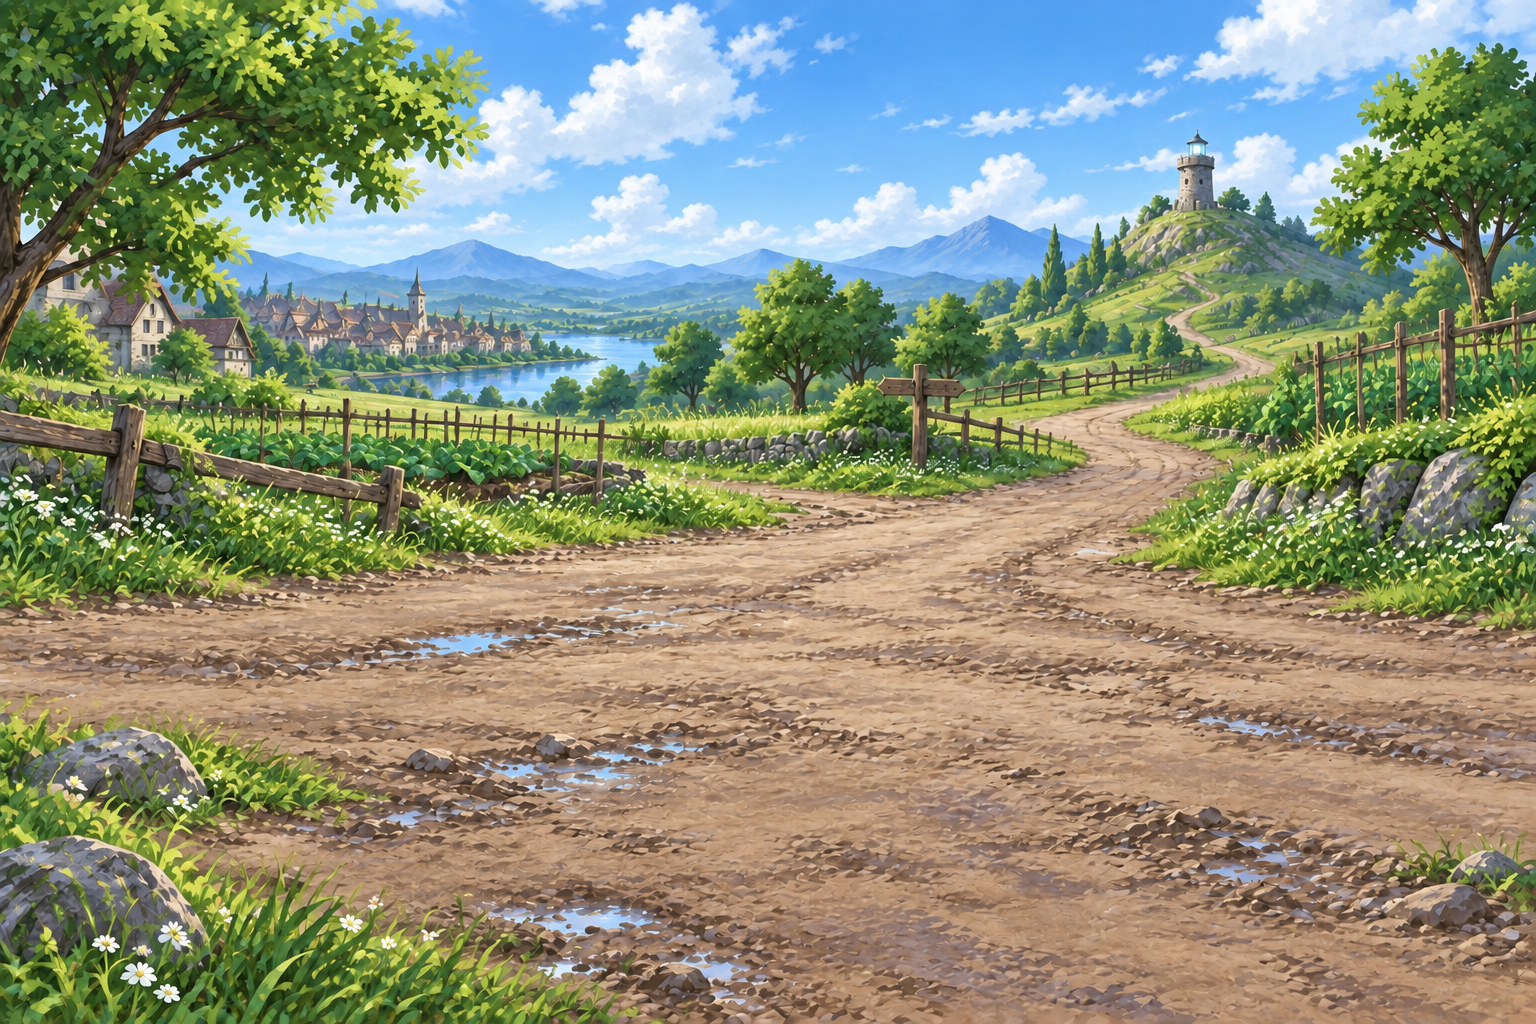
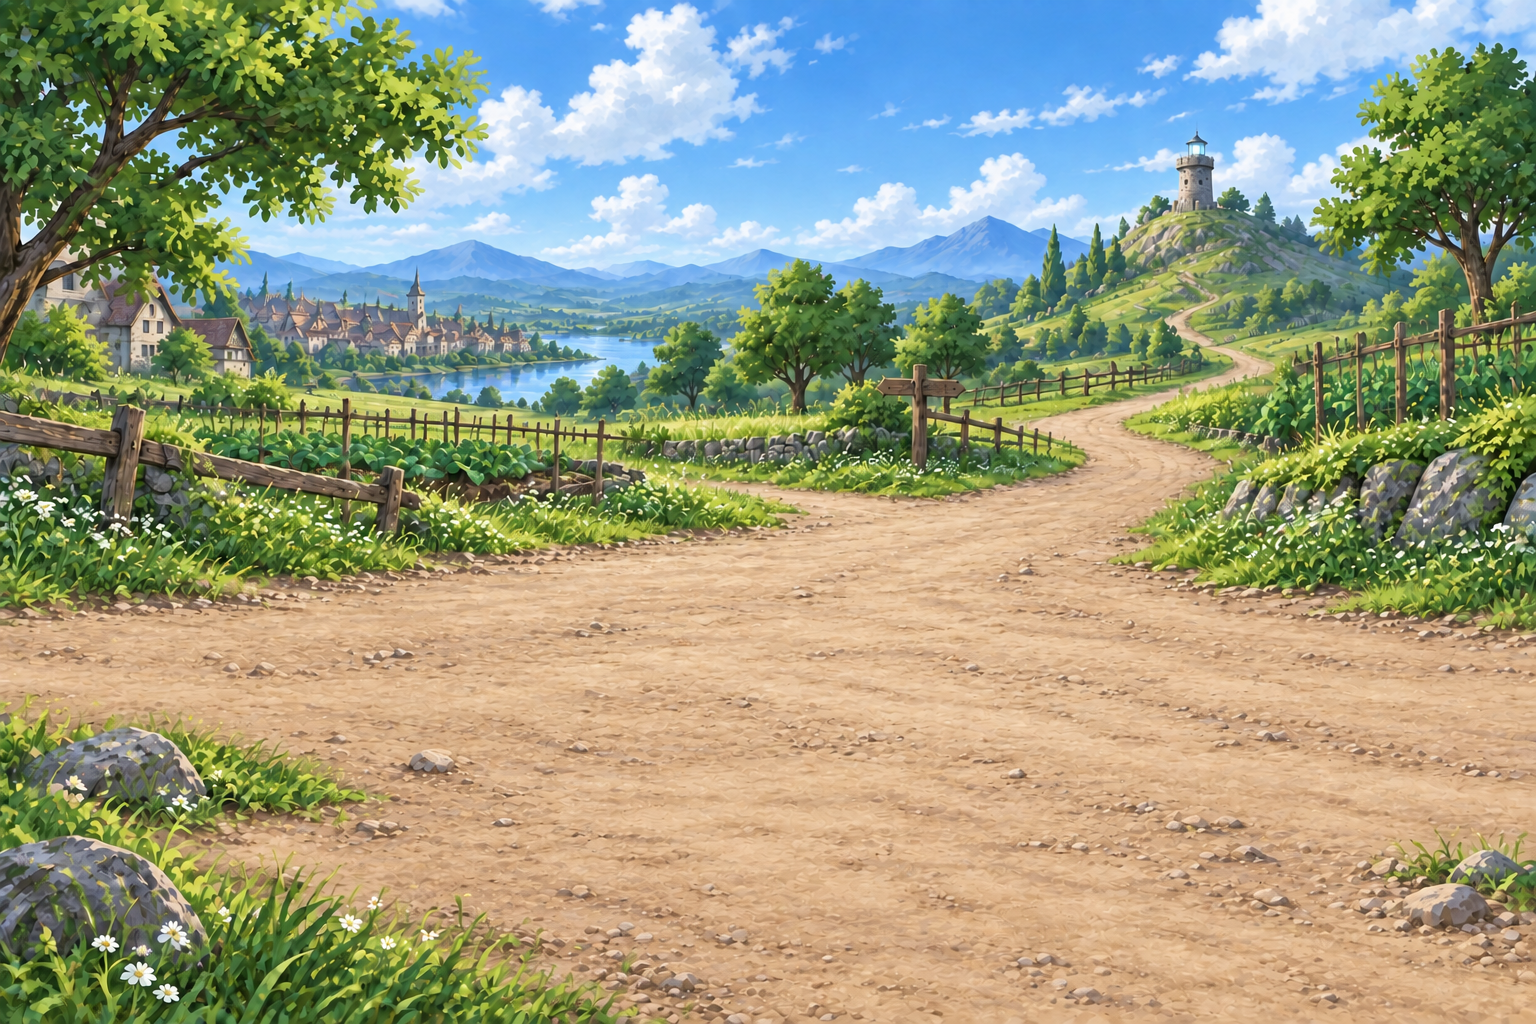
fix: motivate moss sampling and soften tower road scenery

diff --git a/lib/prologue-stories.ts b/lib/prologue-stories.ts
@@ -93,7 +93,10 @@ export const prologueStories:Story[]=[
   n('アリアが石組みの日陰を覗いた。隙間に寄り添う苔が、淡く光っている。'),
   a('ねえ、ここ。苔が光ってる！'),l('日陰なのに、石の縁まで見えるな。'),
   n('アリアは近づきかけた足を止め、管理人へ顔を向けた。'),
-  a('少しだけ、分けてもらってもいい？'),n('「この外側の、浮いているところなら。ひとつまみで足りるかい。奥の石は動かさないでおくれ」'),
+  a('これ、何ていう苔なの？ どうして光るんだろう。'),
+  n('「私にも分からなくてね。ここで光っているのは見かけるが、名前も、光るわけも知らないんだ」'),
+  a('こんなに明るいなら、少し寄せたら灯りにできないかな。帰りに足元が見えたら便利だよね。'),l('採っても光るかは、まだ分からないぞ。'),
+  a('うん。試してみたいな。少しだけ、採ってもいい？'),n('「この外側の、浮いているところなら。ひとつまみで足りるかい。奥の石は動かさないでおくれ」'),
   a('うん、ここだけ。根元の土も少し残しておくね。'),
   n('レオンが袋から浅い木の入れ物を出した。アリアは借りた木べらで小さな苔の塊をすくい、その中へ移した。'),
   n('少し寄せただけの苔が、入れ物の中で柔らかく光った。レオンの手袋の縫い目が、淡い緑に浮かぶ。'),

diff --git a/lib/story-art.ts b/lib/story-art.ts
@@ -11,7 +11,7 @@ export const storyArt: Partial<Record<string, StoryArt>> = {
  'tower-road-return': {
   src: '/stories/tower-moss-discovery.png',
   alt: '塔の足元で、アリアが木べらで分けた光る苔を、レオンの持つ浅い木の入れ物へ寄せる。小さな苔灯が二人の手元を淡く照らす。',
-  width: 1536, height: 1024, revealAtLine: 16,
+  width: 1536, height: 1024, revealAtLine: 20,
  },
  'village-trade-return': {
   src: '/stories/village-trade-handover.png',

diff --git a/docs/story-art.md b/docs/story-art.md
@@ -8,10 +8,10 @@
 
 | 保存先 | 用途・表示条件 |
 | --- | --- |
-| `public/stages/tower-road.png` | 1-4の一覧・冒険背景。畑、林、湿った坂道、遠景の小さな塔。初稿の夕焼けを昼の青空へ修正して採用 |
+| `public/stages/tower-road.png` | 1-4の一覧・冒険背景。畑、林、普通の土の道、遠景の小さな塔。初稿の夕焼けを昼の青空へ修正し、道の水たまり・泥の強調も抑えて採用 |
 | `public/stages/moss-night-road.png` | 1-5の一覧・冒険背景。夜の交易路と村々への分かれ道。地面を見分けられる月明かり |
 | `public/items/moss-lamp.png` | 1-5の足元確認地点に表示する木の入れ物と淡く光る苔。透明背景。魔物除けや防御効果はない |
-| `public/stories/tower-moss-discovery.png` | `tower-road-return` の0始まり16行目、採取の許可を得て木の入れ物の中で苔が光る場面から表示。読了後はアルバムでも鑑賞可能 |
+| `public/stories/tower-moss-discovery.png` | `tower-road-return` の0始まり20行目、苔について尋ね、灯りとして試したい理由を伝え、採取の許可を得た後、木の入れ物の中で苔が光る場面から表示。読了後はアルバムでも鑑賞可能 |
 
 現在の会話は一行送りのため、新しい絵の表示条件は3行ごとのページ境界に縛らない。下記の過去の制作記録にある3行表示は当時の方式。絵は光る苔を手に取る以前には見せない。
 

diff --git a/docs/story-part-1.md b/docs/story-part-1.md
@@ -111,7 +111,7 @@
 
 管理人は掃除や通常の点検では良くならず、専門家にも相談していると話す。足元は湿っていて道の端もぬかるむが、この時点では最近の天候のせいにも見える。先に水路の詰まりや魔力吸収の仕組みを説明しない。
 
-日陰の石組みに、柔らかな光を放つ苔を見つける。アリアは珍しがり、レオンが少量を容器に寄せると手元が見えることに気づく。管理人に採ってよい場所と量を確認し、外側の群落から少し分けてもらう。三人とも、まだ苔と塔の不調を結びつけない。
+日陰の石組みに、柔らかな光を放つ苔を見つける。アリアが何という苔で、なぜ光るのかを尋ねるが、管理人も詳しくは知らない。アリアは「少し寄せたら帰りの足元を照らす灯りにできるかもしれない」と思いつく。採った後も光るかはまだ分からず、少量で試すために管理人へ採ってよい場所と量を確認する。外側の群落から少し分けてもらい、容器へ寄せて初めて手元の灯りになると確かめる。三人とも、まだ苔と塔の不調を結びつけない。
 
 **残るもの**：即席の苔灯。拾った少量を入れ物に収めた簡単な使い方で、商品や完成した発明にはしない。
 
